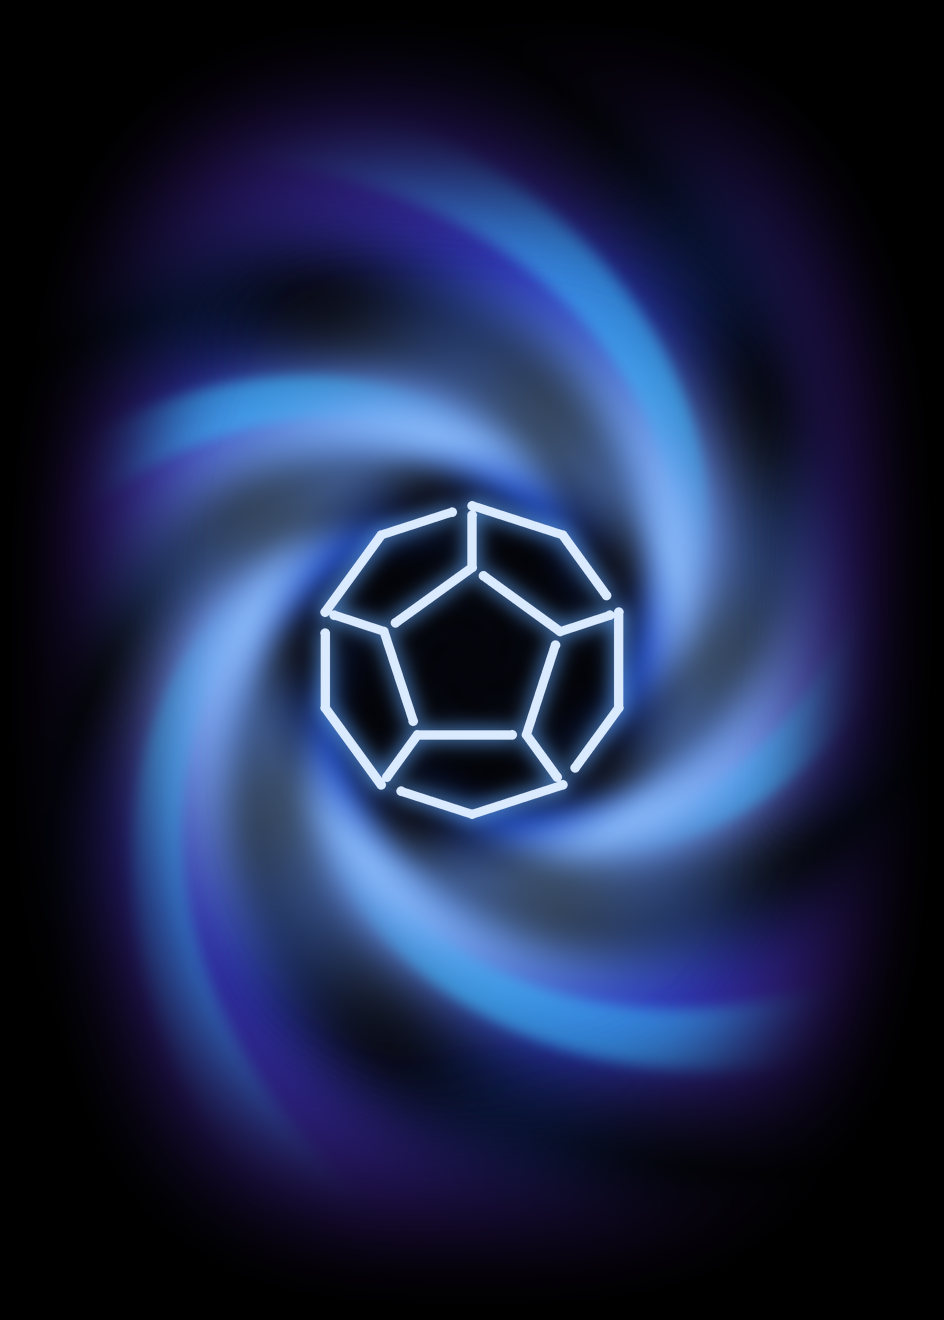
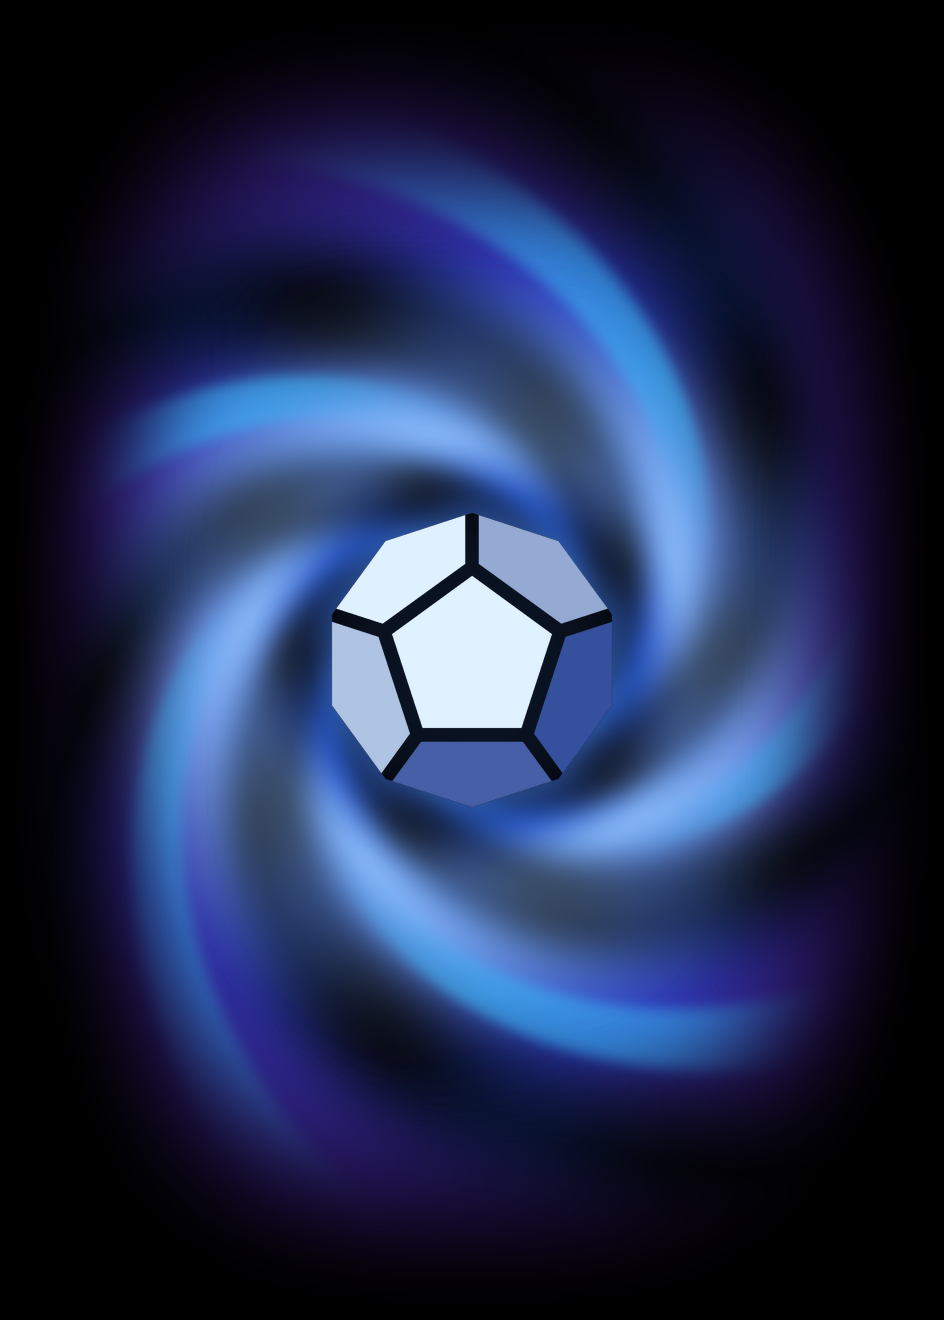
fix(cards): minimal gem as six flat faces apart by even channels
The line version (loose round-ended strokes) is replaced: the logo's table
and five side faces, each inset by half a channel with mitred corners so
every cut has one width and the pieces fit; one flat tone per face by the
light, a soft glow behind.

Changed region(s): [[0.3379, 0.3727, 0.6758, 0.6212]]

diff --git a/design/cardback/build_cardback.py b/design/cardback/build_cardback.py
@@ -23,9 +23,8 @@ SHAPE = 3  # the vortex's fade outline: 2 an ellipse, higher nearer the card's r
 TWIST = 1.7  # how tightly the arms coil (the home's: 2.6)
 ARMS = 5  # the vortex's arms (the home's has 3)
 GEM = False  # the ERAS gem, faceted, in the vortex's eye
-MINIMAL = True  # instead: the gem in line only (its girdle, table and the five edges between them)
-STROKE = 0.024  # the line's width, as a share of the gem's size
-CUT = 0.22  # the cuts' length, as a share of the edge they open
+MINIMAL = True  # instead: the gem flat, its six faces apart by even channels
+CHANNEL = 0.035  # the channels' width, as a share of the gem's size
 ACCENT = '#38bdf8'  # the vortex's accent arm: a light blue of the palette
 K = 2  # output scale
 NIGHT = (0, 0, 0, 255)  # the card's ground: black, the vortex fading into it
@@ -56,44 +55,54 @@ def vortex_on(iw, ih, vortex):
     return im
 
 
+def inset(poly, d):
+    """A convex polygon (clockwise or not) moved in by `d` on every side: each side shifted along its inner normal, the
+    corners where the shifted sides meet (mitred, so the channels between pieces keep one width)."""
+    n = len(poly)
+    area = sum(poly[i][0] * poly[(i + 1) % n][1] - poly[(i + 1) % n][0] * poly[i][1] for i in range(n))
+    sign = 1 if area > 0 else -1
+    lines = []
+    for i in range(n):
+        (x1, y1), (x2, y2) = poly[i], poly[(i + 1) % n]
+        dx, dy = x2 - x1, y2 - y1
+        length = (dx * dx + dy * dy) ** 0.5
+        nx, ny = -dy / length * sign, dx / length * sign  # inward
+        lines.append(((x1 + nx * d, y1 + ny * d), (dx, dy)))
+    out = []
+    for i in range(n):
+        (p1, d1), (p2, d2) = lines[i - 1], lines[i]
+        den = d1[0] * d2[1] - d1[1] * d2[0]
+        t = ((p2[0] - p1[0]) * d2[1] - (p2[1] - p1[1]) * d2[0]) / den
+        out.append((p1[0] + d1[0] * t, p1[1] + d1[1] * t))
+    return out
+
+
 def minimal_gem(scene, size):
-    """The gem drawn in line over `scene` (H×W×4 floats), centered, `size` across: a translucent dark inside, so it reads
-    over the vortex, and light lines (the logo's girdle, table and edges) cut at one end, turning with the vortex, with a
-    soft blue glow."""
+    """The gem as flat pieces over `scene` (H×W×4 floats), centered, `size` across: the table and the five side faces of
+    the logo, each in one tone by how it faces the light, apart by channels of one width (the cuts), with a soft blue
+    glow behind."""
     ih, iw = scene.shape[:2]
-    ss = 3
+    ss = 4
     k = size / 512 * ss
     ox, oy = (iw - size) / 2 * ss, (ih - size) / 2 * ss
     to = lambda p: (ox + p[0] * k, oy + p[1] * k)
-    fill = Image.new('L', (iw * ss, ih * ss), 0)
-    lines = Image.new('L', (iw * ss, ih * ss), 0)
-    ImageDraw.Draw(fill).polygon([to(p) for p in geo.D], fill=255)
-    d = ImageDraw.Draw(lines)
-    width = max(1, round(size * STROKE * ss))
-
-    def stroke(p, q, cut_start, cut_end):
-        """One edge from p to q, cut short at each end by those shares of its length, with round ends."""
-        (px, py), (qx, qy) = to(p), to(q)
-        a = (px + (qx - px) * cut_start, py + (qy - py) * cut_start)
-        b = (qx - (qx - px) * cut_end, qy - (qy - py) * cut_end)
-        d.line([a, b], fill=255, width=width)
-        for x, y in (a, b):
-            d.ellipse([x - width / 2, y - width / 2, x + width / 2, y + width / 2], fill=255)
-
-    # Five cuts turning with the vortex: the girdle opens after each edge's foot (every other side), the table at the
-    # end of each side, and each edge leaves the table whole and stops short of the girdle
-    for j in range(10):
-        stroke(geo.D[j], geo.D[(j + 1) % 10], CUT if j % 2 == 0 else 0, 0)
-    for kk in range(5):
-        stroke(geo.P[kk], geo.P[(kk + 1) % 5], 0, CUT * 0.6)
-        stroke(geo.P[kk], geo.D[2 * kk], 0, CUT * 0.7)
-    fill = np.asarray(fill.resize((iw, ih), Image.LANCZOS), np.float32)[..., None] / 255
-    line = np.asarray(lines.resize((iw, ih), Image.LANCZOS), np.float32)[..., None] / 255
+    gap = 512 * CHANNEL / 2  # each piece gives half the channel, in the logo's units
+    pieces = [(inset(geo.P, gap), 1.0)] + [(inset(geo.face(kk), gap), geo.lit(kk)) for kk in range(5)]
+    light, dark = np.array([0.88, 0.95, 1.0], np.float32), np.array([0.09, 0.2, 0.55], np.float32)
     rgb = scene[..., :3]
-    rgb = rgb * (1 - fill * 0.6)                                   # the dark inside
-    glow = blur(line, size * 0.025) * 1.6
-    rgb = 1 - (1 - rgb) * (1 - np.clip(glow, 0, 1) * np.array([0.38, 0.65, 0.98], np.float32) * 0.8)
-    rgb = rgb * (1 - line) + np.array([0.86, 0.92, 1.0], np.float32) * line
+    # Glow: the gem's light on the vortex, from its silhouette
+    sil = Image.new('L', (iw * ss, ih * ss), 0)
+    ImageDraw.Draw(sil).polygon([to(p) for p in inset(geo.D, gap)], fill=255)  # the pieces' outer edge: no rim
+    sil = np.asarray(sil.resize((iw, ih), Image.LANCZOS), np.float32)[..., None] / 255
+    glow = np.clip(blur(sil, size * 0.08) * 0.9, 0, 1) * np.array([0.25, 0.5, 0.95], np.float32)
+    rgb = 1 - (1 - rgb) * (1 - glow)
+    rgb = rgb * (1 - sil * 0.85)  # the channels show a dark ground, not the vortex
+    for poly, lit in pieces:
+        m = Image.new('L', (iw * ss, ih * ss), 0)
+        ImageDraw.Draw(m).polygon([to(p) for p in poly], fill=255)
+        m = np.asarray(m.resize((iw, ih), Image.LANCZOS), np.float32)[..., None] / 255
+        tone = dark + (light - dark) * (0.1 + 0.9 * lit)
+        rgb = rgb * (1 - m) + tone * m
     scene[..., :3] = rgb
     return scene
 
